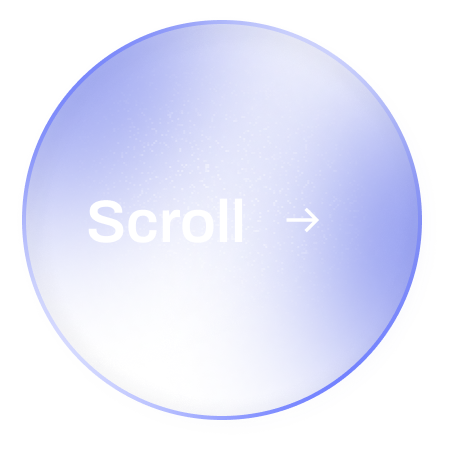
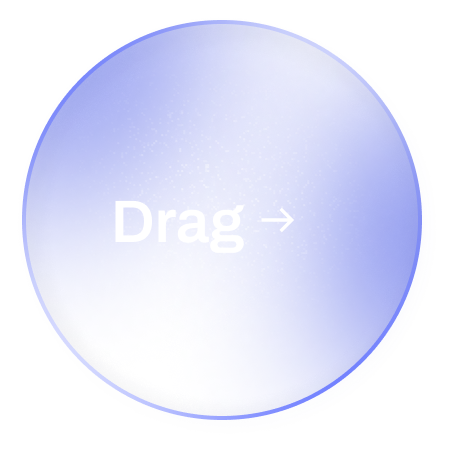
changes v5

Changed region(s): [[0.1858, 0.4336, 0.3407, 0.5575], [0.5885, 0.4646, 0.7124, 0.5265]]

diff --git a/src/sections/home/HowItWorks.jsx b/src/sections/home/HowItWorks.jsx
@@ -84,7 +84,10 @@ function HowItWorks() {
             
 
       {/* Work Steps */}
-      <div className="work-content relative bg-blue grid md:grid-cols-2 lg:grid-cols-4">
+      <div className="bg-blue">
+
+     
+      <div className="work-content relative  grid md:grid-cols-2 lg:grid-cols-4">
         {/* <div className="absolute z-50 top-[50%] left-[50%] translate-x-[-50%] translate-y-[-50%] max-w-[1600px] m-auto">
               <img src="/line.svg" alt="" />
             </div> */}
@@ -189,7 +192,17 @@ function HowItWorks() {
             </div>
           </motion.div>
         ))}
+        
       </div>
+      <div className="flex justify-center pb-20">
+           <Button
+                      link={"/login"}
+                      text={"Get Started"}
+                      btnBg={"bg-white"}
+                      arrowBg={"bg-primary text-white"}
+                    />
+        </div>
+         </div>
     </div>
   );
 }

diff --git a/src/components/Footer.jsx b/src/components/Footer.jsx
@@ -7,7 +7,7 @@ const Footer = () => {
   return (
     <footer className="bg-blue text-white px-6 py-12 overflow-hidden h-[100vh]">
       <div className="container-fixed h-full">
-       <div className="flex flex-col justify-between h-full">
+       <div className="flex flex-col justify-between h-full md:px-5">
          <div className="grid grid-cols-1 xl:grid-cols-3 gap-10">
           {/* Left Section: Logo + CTA */}
           <div>
